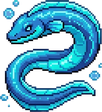
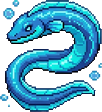
fix: ground NPCs/enemies to nearest surface + strip leftover bg boxes from sliced enemy frames
- buildFromRows now snaps citizens (feet+22), enemies (feet+ENEMY_FOOT) and
  food to the first solid/platform surface below their spawn char, so they no
  longer float on tall vertical levels.
- Flood-fill cleaner removed border-connected grey/translucent halos the
  code-based slicer left around several enemy cutouts.

diff --git a/kaiju-clash/index.html b/kaiju-clash/index.html
@@ -437,17 +437,26 @@ function spawnCitizens(){
 function buildFromRows(rows){
   const p = LevelParse.parseLevel(rows);
   LW = p.LW; LH = p.LH;                       // level dims are global, set on build
+  // Spawn chars only give a column; the entity must rest on the first solid/platform
+  // surface at or below that row (otherwise NPCs/enemies float in mid-air on a tall map).
+  const surfaceTop = (col, fromRow)=>{
+    for(let r=fromRow; r<p.LH; r++){
+      const v = p.tiles[r] && p.tiles[r][col];
+      if(v===T_SOLID || v===T_DEST || v===T_PLAT) return r*TS;
+    }
+    return p.LH*TS;                           // virtual floor below the map
+  };
   const food = p.spawns.food.map((s,i)=>({
     type: FOOD_TYPES[i % FOOD_TYPES.length],
-    x: s.c*TS + TS/2 - 10, y: s.r*TS - 20, collected:false, bobOff:i*0.8,
+    x: s.c*TS + TS/2 - 10, y: surfaceTop(s.c, s.r) - 30, collected:false, bobOff:i*0.8,
   }));
   const enemies = p.spawns.enemies.map(s=>({
-    x: s.c*TS, y: s.r*TS, dir:-1, type:s.type,
+    x: s.c*TS, y: surfaceTop(s.c, s.r) - ENEMY_FOOT, dir:-1, type:s.type,
     hp: ENEMIES[s.type].hp, maxHp: ENEMIES[s.type].hp,
     patrol:[(s.c-3)*TS, (s.c+3)*TS], stunMs:0, dead:false, flashMs:0,
   }));
   const citizens = p.spawns.citizens.map((s,i)=>({
-    x: s.c*TS, y: s.r*TS, dir: i%2?1:-1, clr:'#ffd8a8', npc: NPC_TYPES[i % NPC_TYPES.length],
+    x: s.c*TS, y: surfaceTop(s.c, s.r) - 22, dir: i%2?1:-1, clr:'#ffd8a8', npc: NPC_TYPES[i % NPC_TYPES.length],
     saved:false, eaten:false, eatenTimer:0, savedTimer:0, particles:[],
   }));
   const ps = p.spawns.player || { r:7, c:2 };
